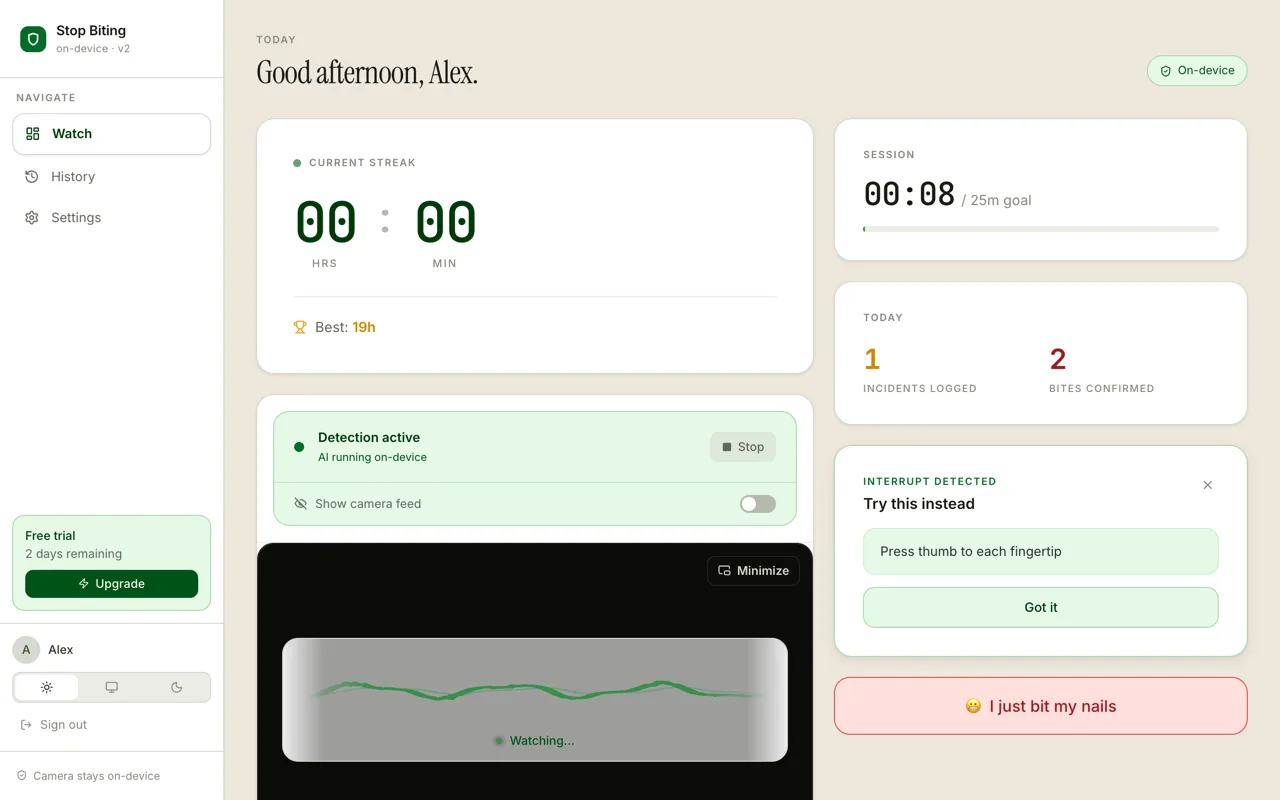
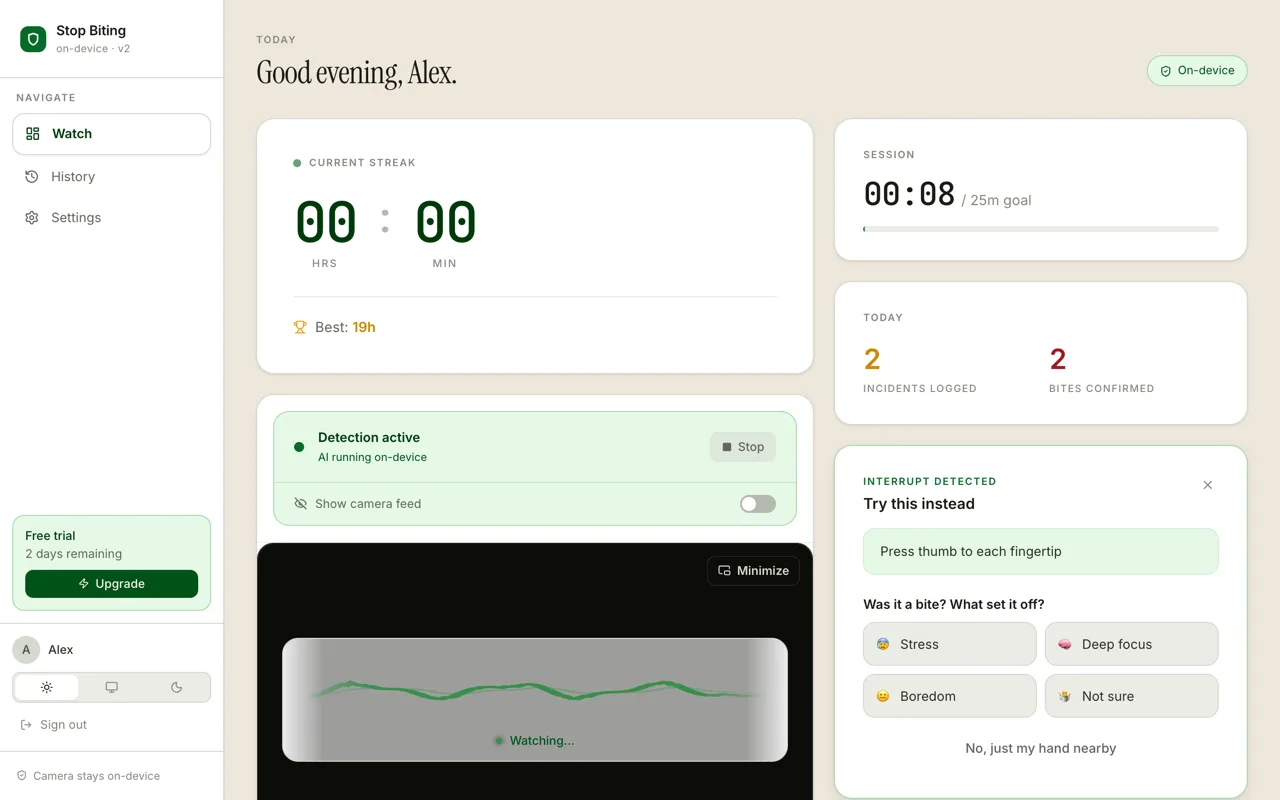
feat(app): ask "was it a bite, and what set it off?" at the alarm moment
Tagging a detection was only possible later, from a hover-only button in
History, so it mostly never happened. The post-alarm card now asks right
away, with the same trigger chips as "I just bit my nails" (moved to
triggerTags.ts) and "No, just my hand nearby". confirmIncident takes an
optional trigger; History shows it instead of a generic "Bite (confirmed)".

Also fixes the card picking the OLDEST auto-detection (reversed a
newest-first list) and re-asking about stale ones after a reload: it now asks
only about detections from the last 10 minutes. Homepage hero screenshot
recaptured to show the new card.

Changed region(s): [[0.625, 0.7188, 1.0, 1.0], [0.25, 0.0625, 0.375, 0.125], [0.6562, 0.4375, 0.6875, 0.4688]]

diff --git a/src/components/dashboard/ReplacementPrompt.tsx b/src/components/dashboard/ReplacementPrompt.tsx
@@ -1,6 +1,8 @@
 import { useState } from 'react';
 import { X } from 'lucide-react';
 import { useAppStore } from '../../store/useAppStore';
+import { PRESET_TAGS } from './triggerTags';
+import type { TriggerTag } from '../../types';
 
 const SUGGESTIONS = [
   'Press thumb to each fingertip',
@@ -9,19 +11,35 @@ const SUGGESTIONS = [
   'Sip water mindfully',
 ];
 
+const RECENT_MS = 10 * 60 * 1000;
+
+// Shown after every auto-detection. Two jobs, in the order the moment needs
+// them: a competing response to do with your hands right now, then one tap to
+// say whether it was a bite and what set it off. Tagging used to be possible
+// only later, from a hover button in History, which is where it never happened.
 export function ReplacementPrompt() {
-  const { incidents } = useAppStore();
+  const { incidents, customTags, confirmIncident } = useAppStore();
   const [dismissed, setDismissed] = useState<number>(0);
+  // Only ask about detections from this sitting: after a reload, a catch from
+  // yesterday is not "the moment" any more. Anchored at mount so render stays pure.
+  const [askAfter] = useState(() => Date.now() - RECENT_MS);
 
-  const lastAuto = [...incidents]
-    .reverse()
-    .find(i => i.tag === 'auto-detected');
+  // `autoDetected`, not the tag: confirming with a trigger replaces the
+  // 'auto-detected' tag, and the dismissed timestamp is what hides this card.
+  const lastAuto = incidents.find(i => i.autoDetected);
 
-  const shouldShow = lastAuto && dismissed < lastAuto.timestamp;
+  const shouldShow =
+    lastAuto && !lastAuto.confirmed && lastAuto.timestamp > askAfter && dismissed < lastAuto.timestamp;
 
   if (!shouldShow) return null;
 
   const suggestion = SUGGESTIONS[lastAuto.timestamp % SUGGESTIONS.length];
+  const tags = [...PRESET_TAGS, ...customTags];
+
+  const answer = (tag?: TriggerTag) => {
+    if (tag) confirmIncident(lastAuto.id, tag);
+    setDismissed(lastAuto.timestamp);
+  };
 
   return (
     <div className="bg-white dark:bg-ink-50 border border-forest-200 dark:border-forest-800 rounded-[18px] p-7 shadow-card-md dark:shadow-card-md-dark animate-fade-up">
@@ -35,7 +53,7 @@ export function ReplacementPrompt() {
           </p>
         </div>
         <button
-          onClick={() => setDismissed(lastAuto.timestamp)}
+          onClick={() => answer()}
           aria-label="Dismiss"
           className="p-2.5 -m-1.5 rounded-lg text-stone-400 hover:text-stone-600 dark:hover:text-stone-300 hover:bg-stone-100 dark:hover:bg-ink-400 transition-colors"
         >
@@ -47,11 +65,26 @@ export function ReplacementPrompt() {
         {suggestion}
       </p>
 
+      <p className="mt-5 text-[13px] font-semibold text-stone-800 dark:text-stone-100">
+        Was it a bite? What set it off?
+      </p>
+      <div className="mt-2 grid grid-cols-2 gap-2">
+        {tags.map(({ id, label, emoji }) => (
+          <button
+            key={id}
+            onClick={() => answer(id)}
+            className="flex min-h-11 items-center gap-2 rounded-xl border border-stone-200 dark:border-ink-400 bg-stone-100 dark:bg-ink-300 px-3 text-[13px] text-stone-700 dark:text-stone-300 transition-colors hover:bg-stone-200 dark:hover:bg-ink-200"
+          >
+            <span aria-hidden="true">{emoji}</span>
+            <span>{label}</span>
+          </button>
+        ))}
+      </div>
       <button
-        onClick={() => setDismissed(lastAuto.timestamp)}
-        className="mt-3 w-full py-2.5 rounded-xl text-[13px] font-medium text-forest-700 dark:text-forest-300 bg-forest-50 dark:bg-forest-900/20 hover:bg-forest-100 dark:hover:bg-forest-900/40 border border-forest-200 dark:border-forest-800 transition-colors"
+        onClick={() => answer()}
+        className="mt-2 min-h-11 w-full rounded-xl text-[13px] font-medium text-stone-500 dark:text-stone-400 hover:text-stone-700 dark:hover:text-stone-200 transition-colors"
       >
-        Got it
+        No, just my hand nearby
       </button>
     </div>
   );

diff --git a/src/pages/Landing.tsx b/src/pages/Landing.tsx
@@ -233,7 +233,7 @@ export function Landing() {
                     height={800}
                     fetchPriority="high"
                     decoding="async"
-                    alt="The Stop Biting Watch screen: detection running with the camera feed hidden, the streak just reset after a catch, best streak 19 hours, and a card suggesting pressing your thumb to each fingertip instead."
+                    alt="The Stop Biting Watch screen right after a catch: detection running with the camera feed hidden, the streak reset, best streak 19 hours, and a card suggesting pressing your thumb to each fingertip, then asking whether it was a bite and what set it off: stress, deep focus, boredom or not sure."
                     className="w-full rounded-lg border border-[color:var(--sg-rule)]"
                   />
                   <figcaption className="sg-note mt-2">

diff --git a/src/store/useAppStore.test.ts b/src/store/useAppStore.test.ts
@@ -59,6 +59,23 @@ describe('confirmIncident', () => {
     // The streak broke when the bite happened, not when it was confirmed.
     expect(store().lastBiteTime).toBe(T0 + 60_000);
   });
+  it('records the trigger picked at the alarm moment', () => {
+    at(60_000);
+    store().logIncident('auto-detected', true);
+    const id = store().incidents[0].id;
+
+    store().confirmIncident(id, 'stress');
+
+    expect(store().incidents[0]).toMatchObject({ confirmed: true, tag: 'stress', autoDetected: true });
+    expect(store().lastBiteTime).toBe(T0 + 60_000);
+  });
+
+  it('keeps the auto-detected tag when no trigger is given', () => {
+    at(60_000);
+    store().logIncident('auto-detected', true);
+    store().confirmIncident(store().incidents[0].id);
+    expect(store().incidents[0].tag).toBe('auto-detected');
+  });
 });
 
 describe('deleteIncident', () => {

diff --git a/src/store/useAppStore.ts b/src/store/useAppStore.ts
@@ -152,12 +152,12 @@ export const useAppStore = create<AppState & AppActions>()(
         set({ ...next, ...deriveStreakState(next) });
       },
 
-      confirmIncident: (id: string) => {
+      confirmIncident: (id: string, tag?: TriggerTag) => {
         const { incidents, historyStartTime, bestStreakFloorMs } = get();
         if (!incidents.some(i => i.id === id)) return;
 
         const next = {
-          incidents: incidents.map(i => i.id === id ? { ...i, confirmed: true } : i),
+          incidents: incidents.map(i => i.id === id ? { ...i, confirmed: true, ...(tag ? { tag } : {}) } : i),
           historyStartTime,
           bestStreakFloorMs,
         };

diff --git a/src/components/dashboard/PanicButton.tsx b/src/components/dashboard/PanicButton.tsx
@@ -1,13 +1,7 @@
 import { useState } from 'react';
 import { useAppStore } from '../../store/useAppStore';
+import { PRESET_TAGS } from './triggerTags';
 import type { TriggerTag } from '../../types';
-
-const PRESET_TAGS: { id: TriggerTag; label: string; emoji: string }[] = [
-  { id: 'stress', label: 'Stress', emoji: '😰' },
-  { id: 'focus', label: 'Deep focus', emoji: '🧠' },
-  { id: 'boredom', label: 'Boredom', emoji: '😐' },
-  { id: 'unknown', label: 'Not sure', emoji: '🤷' },
-];
 
 export function PanicButton() {
   const { logIncident, customTags } = useAppStore();

diff --git a/src/pages/Log.tsx b/src/pages/Log.tsx
@@ -213,7 +213,7 @@ export function Log() {
                       const bite = isConfirmedBite(inc);
                       const tagColor = bite ? BITE_TAG_COLOR : INCIDENT_TAG_COLOR;
                       const tagLabel = bite
-                        ? (inc.confirmed ? '✓ Bite (confirmed)' : biteTagLabel(inc, customTags))
+                        ? (inc.confirmed && inc.tag === 'auto-detected' ? '✓ Bite (confirmed)' : biteTagLabel(inc, customTags))
                         : '📷 Incident';
                       return (
                         <div

diff --git a/src/components/dashboard/triggerTags.ts b/src/components/dashboard/triggerTags.ts
@@ -1,0 +1,10 @@
+import type { TriggerTag } from '../../types';
+
+// The preset triggers, shared by the "I just bit my nails" sheet and the
+// post-alarm prompt so both ask the same question with the same words.
+export const PRESET_TAGS: { id: TriggerTag; label: string; emoji: string }[] = [
+  { id: 'stress', label: 'Stress', emoji: '😰' },
+  { id: 'focus', label: 'Deep focus', emoji: '🧠' },
+  { id: 'boredom', label: 'Boredom', emoji: '😐' },
+  { id: 'unknown', label: 'Not sure', emoji: '🤷' },
+];

diff --git a/src/types/index.ts b/src/types/index.ts
@@ -66,7 +66,8 @@ export interface AppState {
 
 export interface AppActions {
   logIncident: (tag: TriggerTag, autoDetected?: boolean) => void;
-  confirmIncident: (id: string) => void;
+  /** Marks an auto-detection as a real bite, optionally with the trigger the user picked. */
+  confirmIncident: (id: string, tag?: TriggerTag) => void;
   deleteIncident: (id: string) => void;
   setCameraEnabled: (enabled: boolean) => void;
   setShowCameraFeed: (show: boolean) => void;
